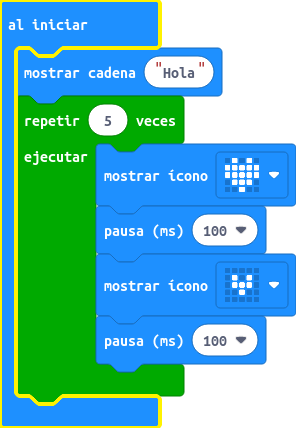
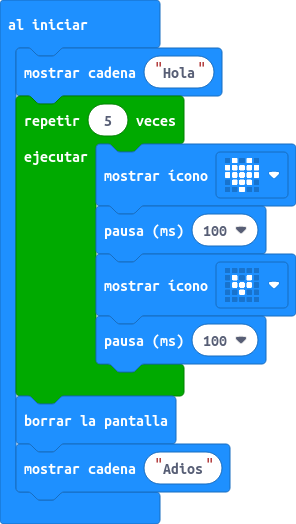
Actualizar main.blocks, main.ts

diff --git a/main.ts b/main.ts
@@ -5,3 +5,5 @@ for (let index = 0; index < 5; index++) {
     basic.showIcon(IconNames.SmallHeart)
     basic.pause(100)
 }
+basic.clearScreen()
+basic.showString("Adios")
